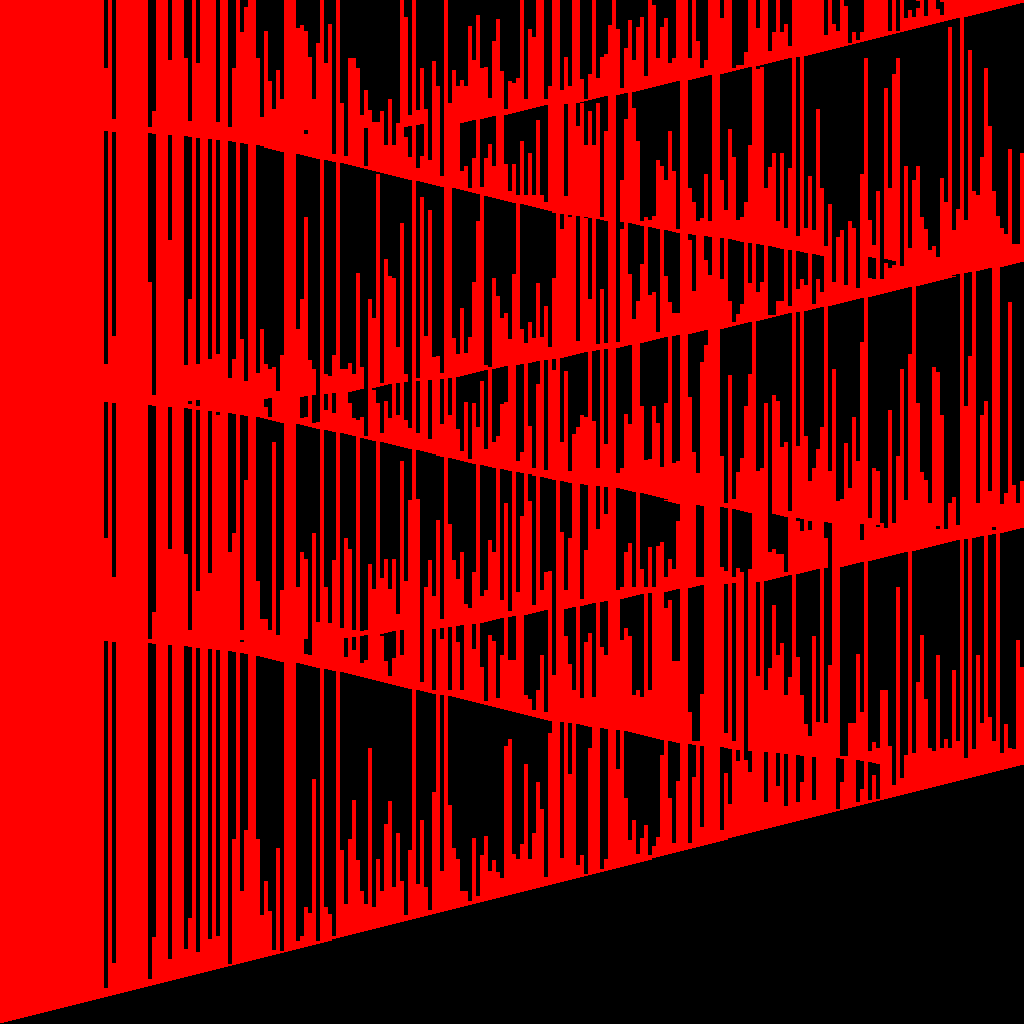
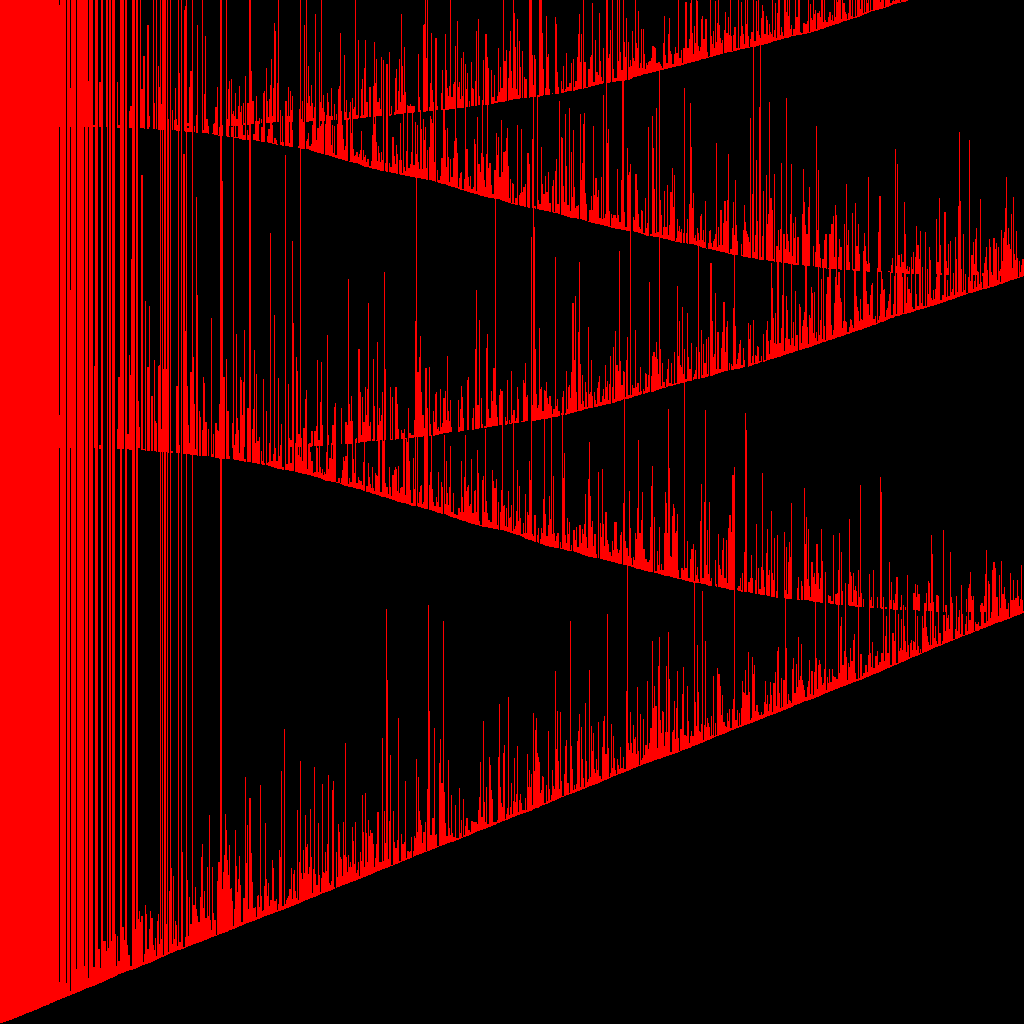
bug fixes

diff --git a/PerfTest/Benchmark.cs b/PerfTest/Benchmark.cs
@@ -65,7 +65,7 @@ namespace PerfTest
         {
             long lengthRentedCurrent = 0;
             long lengthRentedTotal = 0;
-            long lengthRentedWindow = 0;
+            long countRentedWindow = 0;
             long windowSetLengthTotal = 0;
             long windowSetSpreadMax = 0;
             long windowSetSpreadTotal = 0;
@@ -88,6 +88,8 @@ namespace PerfTest
             List<(bool Rental, NativeMemorySegment<T> Segment)> windowSegments = new(updatesPerWindow);
             var windowTracker = new UpdateWindowTracker<T>(updateWindowFillPercentage);
             var random = new Random(seed);
+
+            Console.WriteLine($"Running {name} ({tag})...");
 
             var stopwatch = new Stopwatch();
             stopwatch.Start();
@@ -127,17 +129,20 @@ namespace PerfTest
 
                     lengthRentedCurrent += segment.Length;
                     lengthRentedTotal += segment.Length;
-                    lengthRentedWindow += segment.Length;
+                    countRentedWindow++;
 
                     // After every N rentals, "apply" them; coalesce into update windows.
-                    if (lengthRentedWindow >= updatesPerWindow)
+                    if (countRentedWindow >= updatesPerWindow)
                     {
                         stopwatch.Stop();
                         elapsedTicks += stopwatch.ElapsedTicks;
 
                         for (int i = 0; i < windowSegments.Count; i++)
                         {
-                            windowTracker.RegisterUpdate(windowSegments[i].Segment);
+                            if (windowSegments[i].Rental)
+                            {
+                                windowTracker.RegisterUpdate(windowSegments[i].Segment);
+                            }
                         }
 
                         var updateWindows = windowTracker.BuildUpdateWindows();
@@ -153,19 +158,39 @@ namespace PerfTest
                         // If there's room left, display a visual line of the new alocations / returns.
                         if (imageYOffset >= 0)
                         {
+                            var pixels = new byte[imageWidth];
+
                             for (int i = 0; i < windowSegments.Count; i++)
                             {
                                 var offsetX = ((long)windowSegments[i].Segment.PElems - (long)suballocator.PElems) / Unsafe.SizeOf<T>() * imageScale;
-                                var width = Math.Max(1, windowSegments[i].Segment.Length * imageScale);
+                                var width = windowSegments[i].Segment.Length * imageScale;
 
-                                surface.Canvas.DrawRect((float)offsetX, 0, (float)width, imageYOffset, windowSegments[i].Rental ? paintFore : paintBack);
+                                // The value of the pixel is defined by the last window to overlap it.
+                                for (int j = (int)offsetX; j < offsetX + width; j++)
+                                {
+                                    //if(pixels[j] != true)
+                                    pixels[j] = windowSegments[i].Rental ? (byte)1 : (byte)2;
+                                }
+                            }
+
+                            for(int i=0; i<pixels.Length; i++)
+                            {
+                                if(pixels[i] == 0)
+                                {
+                                    continue;
+                                }
+
+                                surface.Canvas.DrawRect(i, 0, 1, imageYOffset, pixels[i] == 1 ? paintFore : paintBack);
                             }
 
                             imageYOffset--;
                         }
 
-                        lengthRentedWindow = 0;
+                        countRentedWindow = 0;
                         windowSegments.Clear();
+
+                        GC.Collect(3, GCCollectionMode.Forced, true);
+
                         stopwatch.Restart();
                     }
                 }
@@ -198,13 +223,16 @@ namespace PerfTest
 
             valuesByName["Name"] = name;
             valuesByName["Tag"] = tag;
+            valuesByName["OOM"] = "yes";
+            valuesByName["Duration (ms)"] = "0";
+            valuesByName["Window Set Length (avg)"] = "0";
+            valuesByName["Window Set Spread (avg)"] = "0";
+            valuesByName["Window Set Spread (max)"] = "0";
+            valuesByName["Window Count (avg)"] = "0";
 
-            if (outOfMemory)
+            if (outOfMemory == false)
             {
-                valuesByName["OOM"] = "yes";
-            }
-            else
-            {
+                valuesByName["OOM"] = "no";
                 valuesByName["Duration (ms)"] = new TimeSpan(elapsedTicks).TotalMilliseconds.ToString("0.###");
 
                 if (windowBuilds > 0)

diff --git a/Suballocation/Suballocators/BuddySuballocator.cs b/Suballocation/Suballocators/BuddySuballocator.cs
@@ -242,7 +242,7 @@ public unsafe class BuddySuballocator<T> : ISuballocator<T>, IDisposable where T
 
         ref BlockHeader header = ref _pIndex[freeBlockIndexIndex];
 
-        if (header.Occupied == false) // || header.Valid == false)
+        if (header.Occupied == false || header.Valid == false)
         {
             return false;
         }
@@ -261,7 +261,7 @@ public unsafe class BuddySuballocator<T> : ISuballocator<T>, IDisposable where T
 
             var buddyBlockIndexIndex = blockIndexIndex ^ (1L << lengthLog);
 
-            if (buddyBlockIndexIndex >= _indexLength || _pIndex[buddyBlockIndexIndex].Occupied || /*_pIndex[buddyBlockIndexIndex].Valid == false ||*/ _pIndex[buddyBlockIndexIndex].BlockCountLog != lengthLog)
+            if (buddyBlockIndexIndex >= _indexLength || _pIndex[buddyBlockIndexIndex].Occupied || _pIndex[buddyBlockIndexIndex].Valid == false || _pIndex[buddyBlockIndexIndex].BlockCountLog != lengthLog)
             {
                 // No buddy / the end of the buffer.
                 var nextFree = _freeBlockIndexesStart[lengthLog] == blockIndexIndex ? long.MaxValue : _freeBlockIndexesStart[lengthLog];
@@ -280,7 +280,7 @@ public unsafe class BuddySuballocator<T> : ISuballocator<T>, IDisposable where T
 
             ref var buddyHeader = ref _pIndex[buddyBlockIndexIndex];
 
-            buddyHeader = buddyHeader with { Valid = false, Occupied = true };
+            buddyHeader = buddyHeader with { Valid = false };
 
             if (buddyBlockIndexIndex < blockIndexIndex)
             {
@@ -388,8 +388,7 @@ public unsafe class BuddySuballocator<T> : ISuballocator<T>, IDisposable where T
         private readonly long _nextFree;
 
         public bool Valid { get => (_infoByte & 0b1000_0000) != 0; init => _infoByte = value ? (byte)(_infoByte | 0b1000_0000) : (byte)(_infoByte & 0b0111_1111); }
-        //public bool Occupied { get => (_infoByte & 0b0100_0000) != 0; init => _infoByte = value ? (byte)(_infoByte | 0b0100_0000) : (byte)(_infoByte & 0b1011_1111); }
-        public bool Occupied { get => (_infoByte & 0b1000_0000) == 0; init => _infoByte = value ? (byte)(_infoByte & 0b0111_1111) : (byte)(_infoByte | 0b1000_0000); }
+        public bool Occupied { get => (_infoByte & 0b0100_0000) != 0; init => _infoByte = value ? (byte)(_infoByte | 0b0100_0000) : (byte)(_infoByte & 0b1011_1111); }
         public int BlockCountLog { get => (_infoByte & 0b0011_1111); init => _infoByte = (byte)((_infoByte & 0b1100_0000) | (value & 0b0011_1111)); }
         public long BlockCount
         {

diff --git a/PerfTest/Program.cs b/PerfTest/Program.cs
@@ -61,7 +61,7 @@ public partial class Program
         string tag = "Random";
 
         var results =
-            GetSuballocators<SomeStruct>(length: 1L << 25, blockLength: 32)
+            GetSuballocators<SomeStruct>(length: 1L << 25, blockLength: 1)
                 .Select(suballocator =>
                     Benchmark.Run(
                         imageFolder: _imageFolder,
@@ -70,13 +70,13 @@ public partial class Program
                         suballocator: suballocator,
                         seed: 0,
                         imageWidth: _imageWidth, imageHeight: _imageHeight,
-                        totalLengthToRent: 50_000_000_000,
-                        minSegmentLenInitial: 131072, minSegmentLenFinal: 32,
-                        maxSegmentLenInitial: 131072, maxSegmentLenFinal: 131072,
+                        totalLengthToRent: 120_000_000,
+                        minSegmentLenInitial: 1, minSegmentLenFinal: 1,
+                        maxSegmentLenInitial: 65536 / 4, maxSegmentLenFinal: 65536 / 4,
                         desiredFillPercentage: .55,
                         youthReturnFactor: .5,
-                        updateWindowFillPercentage: .31,
-                        updatesPerWindow: 100))
+                        updateWindowFillPercentage: .21,
+                        updatesPerWindow: 10))
                 .ToList();
         //.Run(.50f, minSegLen, maxSegLen, updateWindowTracker, 10000)
         //.Run(50_000_000_000, minSegLen, minSegLen, maxSegLen, maxSegLen, .55, .5, updateWindowTracker, 100)

diff --git a/Suballocation/Suballocators/DirectionalBlockSuballocator.cs b/Suballocation/Suballocators/DirectionalBlockSuballocator.cs
@@ -278,7 +278,7 @@ public unsafe sealed class DirectionalBlockSuballocator<T> : ISuballocator<T>, I
             Allocations++;
             UsedLength += blockCount * _blockLength;
 
-            segment = new NativeMemorySegment<T>(_pElems + targetIndex * _blockLength, length);
+            segment = new NativeMemorySegment<T>(_pElems + targetIndex * _blockLength, blockCount * _blockLength);
             return true;
         }
     }
@@ -292,10 +292,6 @@ public unsafe sealed class DirectionalBlockSuballocator<T> : ISuballocator<T>, I
         // Convert to block space (divide length by block size).
         long blockIndex = index / _blockLength;
         int blockCount = (int)(segment.Length / _blockLength);
-        if (blockCount * _blockLength != segment.Length)
-        {
-            blockCount++;
-        }
 
         ref IndexEntry header = ref _pIndex[blockIndex];
 

diff --git a/Suballocation/Suballocators/SequentialBlockSuballocator.cs b/Suballocation/Suballocators/SequentialBlockSuballocator.cs
@@ -167,7 +167,7 @@ public unsafe sealed class SequentialBlockSuballocator<T> : ISuballocator<T>, ID
 
                     _lastIndex = blockIndex;
 
-                    segment = new NativeMemorySegment<T>(_pElems + blockIndex * _blockLength, length);
+                    segment = new NativeMemorySegment<T>(_pElems + blockIndex * _blockLength, blockCount * _blockLength);
                     return true;
                 }
             }
@@ -197,10 +197,6 @@ public unsafe sealed class SequentialBlockSuballocator<T> : ISuballocator<T>, ID
         // Convert to block space (divide length by block size).
         long blockIndex = index / _blockLength;
         long blockCount = segment.Length / _blockLength;
-        if (blockCount * _blockLength != segment.Length)
-        {
-            blockCount++;
-        }
 
         ref IndexEntry header = ref _pIndex[blockIndex];
 
